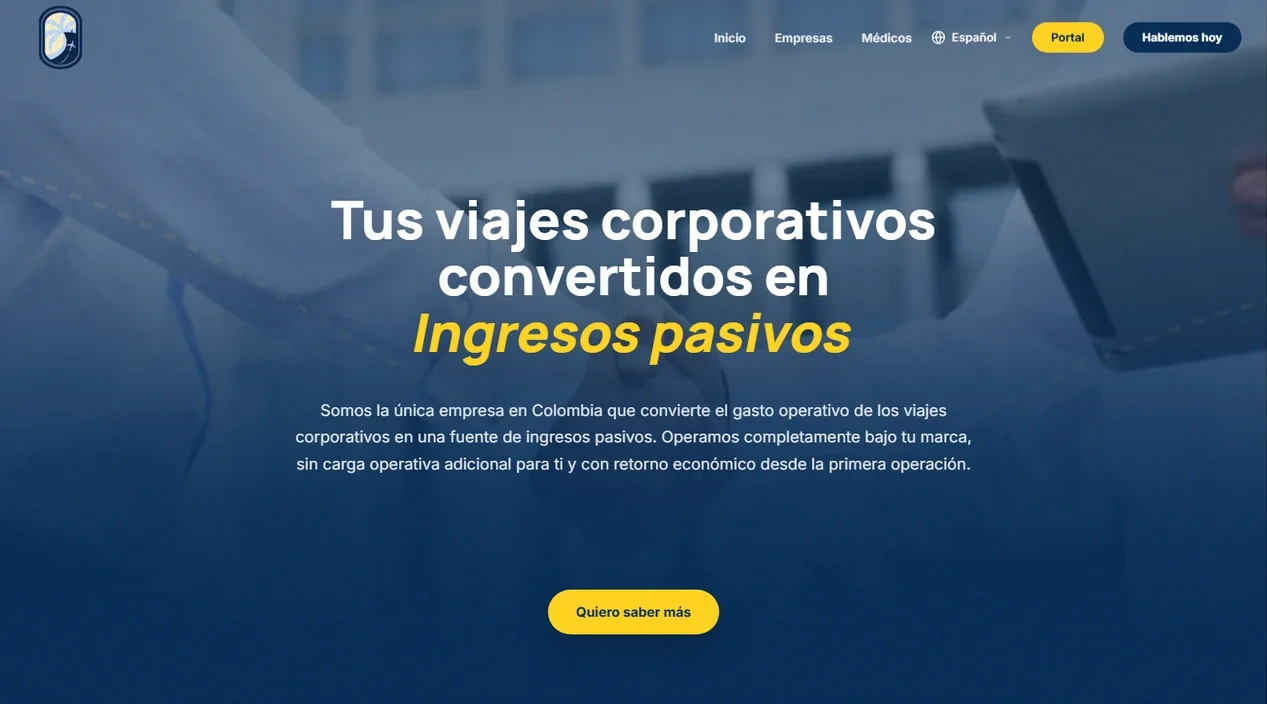
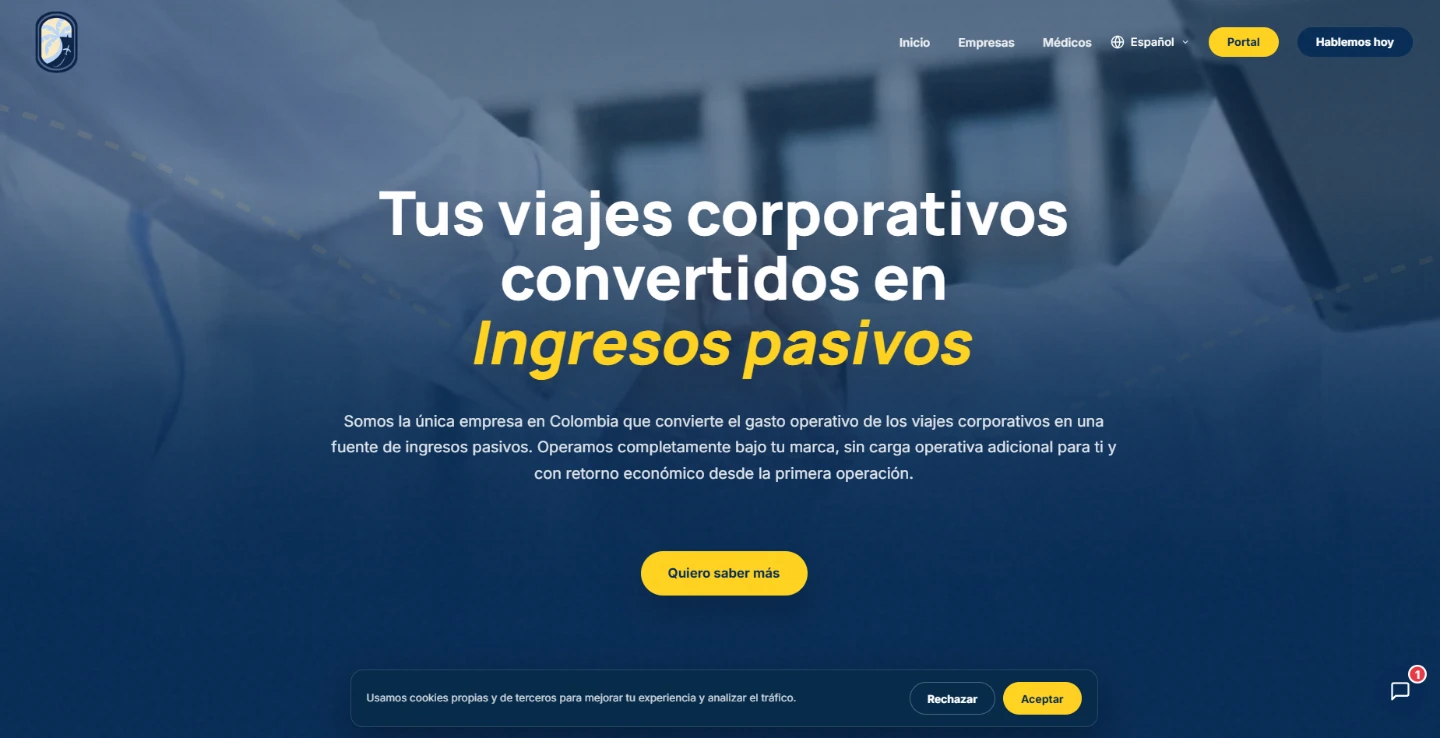
Vitrina: entran las capturas nuevas, las tres a pantalla completa
Reemplazan a las anteriores, que estaban tomadas en ventanas distintas
y venian cortadas: el panel perdia las tarjetas de la derecha y Thallo
se quedaba sin la barra de navegacion. Estas tres vienen del mismo
tamano de ventana, asi que quedan identicas dentro del marco:
1440x738 (proporcion 1.95), reducidas desde 1849x948.

En la del panel van difuminados el correo de la sesion abierta y el
nombre del paciente de la tabla de casos. Es software medico de un
cliente y eso no va en una portada publica.

diff --git a/index.html b/index.html
@@ -296,7 +296,7 @@
        @font-face, que va emparejado con los preload de las fuentes.
        El <link> es bloqueante y esta en el <head>, asi que no hay flash de
        contenido sin estilo: la pagina pinta ya con la hoja aplicada. -->
-  <link rel="stylesheet" href="/assets/portada.css?v=20260729b">
+  <link rel="stylesheet" href="/assets/portada.css?v=20260729c">
 </head>
 
 <body>
@@ -343,11 +343,13 @@
          · Las capturas NO se recortan por CSS — son páginas web y cortarlas
            esconde justo lo que hay que enseñar. El marco se ajusta al alto que
            pida la imagen, nunca al revés.
-         · Las tres van a 1267×704 (proporción 1.8). Es la medida de la captura
-           de CS Travel, que es la que quedó bien, menos los 13 px de la barra
-           de scroll blanca que se coló en el borde derecho. Si entra una
-           captura nueva, recortarla a esa misma proporción: el escenario
-           reserva el alto contando con ella (ver --sc-ar en portada.css).
+         · Las tres van a 1440×738 (proporción 1.95), reducidas desde capturas
+           de pantalla completa del 29 jul 2026. Si entra una captura nueva,
+           recortarla a esa misma proporción: el escenario reserva el alto
+           contando con ella (ver --sc-ar en portada.css).
+         · En la del panel van difuminados el correo de quien tenía la sesión
+           abierta y el nombre del paciente de la tabla. Es software médico de
+           un cliente: esos datos no van en una portada pública.
          · Nada de rotaciones ni de tarjetas ladeadas: las tres van derechas.
          · Las posiciones (centro, izquierda, derecha) las reparte el JS con
            clases y van rotando solas; aquí solo va el orden de la baraja. -->
@@ -357,8 +359,8 @@
             <a class="pad" href="https://www.cstravelgroup.com/" target="_blank" rel="noopener">
               <span class="pad-cam" aria-hidden="true"></span>
               <span class="pad-screen">
-                <img src="assets/trabajo-cstravel-home.webp?v=3" alt="Portada del sitio de CS Travel Group"
-                  width="1267" height="704" fetchpriority="high" decoding="async">
+                <img src="assets/trabajo-cstravel-home.webp?v=4" alt="Portada del sitio de CS Travel Group"
+                  width="1440" height="738" fetchpriority="high" decoding="async">
               </span>
             </a>
             <p class="sc-caption">CS Travel Group <span>Sitio web</span></p>
@@ -370,8 +372,8 @@
             <div class="pad">
               <span class="pad-cam" aria-hidden="true"></span>
               <span class="pad-screen">
-                <img src="assets/trabajo-cstravel-software.webp?v=3" alt="Panel de la plataforma de CS Travel Group"
-                  width="1267" height="704" decoding="async">
+                <img src="assets/trabajo-cstravel-software.webp?v=4" alt="Panel de la plataforma de CS Travel Group"
+                  width="1440" height="738" decoding="async">
               </span>
             </div>
             <p class="sc-caption">CS Travel Group <span>Software a medida</span></p>
@@ -382,8 +384,8 @@
               <span class="pad-screen">
                 <!-- El ?v= es para que el navegador suelte la versión vieja que
                      tiene en caché: el archivo cambió pero el nombre no. -->
-                <img src="assets/trabajo-thallo.webp?v=3" alt="Portada del sitio de Thallo Digital"
-                  width="1267" height="704" decoding="async">
+                <img src="assets/trabajo-thallo.webp?v=4" alt="Portada del sitio de Thallo Digital"
+                  width="1440" height="738" decoding="async">
               </span>
             </a>
             <p class="sc-caption">Thallo Digital <span>Sitio web y marca</span></p>

diff --git a/assets/portada.css b/assets/portada.css
@@ -605,9 +605,9 @@
       /* Ancho de la tableta del centro. Todo lo demás se mide contra esto. */
       --pad-w: clamp(280px, 46vw, 680px);
       --bezel: clamp(9px, 1vw, 15px);
-      /* Proporción de las capturas: las tres van a 1267×704. Si cambia, hay
+      /* Proporción de las capturas: las tres van a 1440×738. Si cambia, hay
          que cambiarla aquí también o el escenario reserva un alto que no es. */
-      --sc-ar: 1.8;
+      --sc-ar: 1.951;
       position: relative;
       margin-top: clamp(2rem, 4vw, 3.25rem);
       padding-inline: var(--pad);
